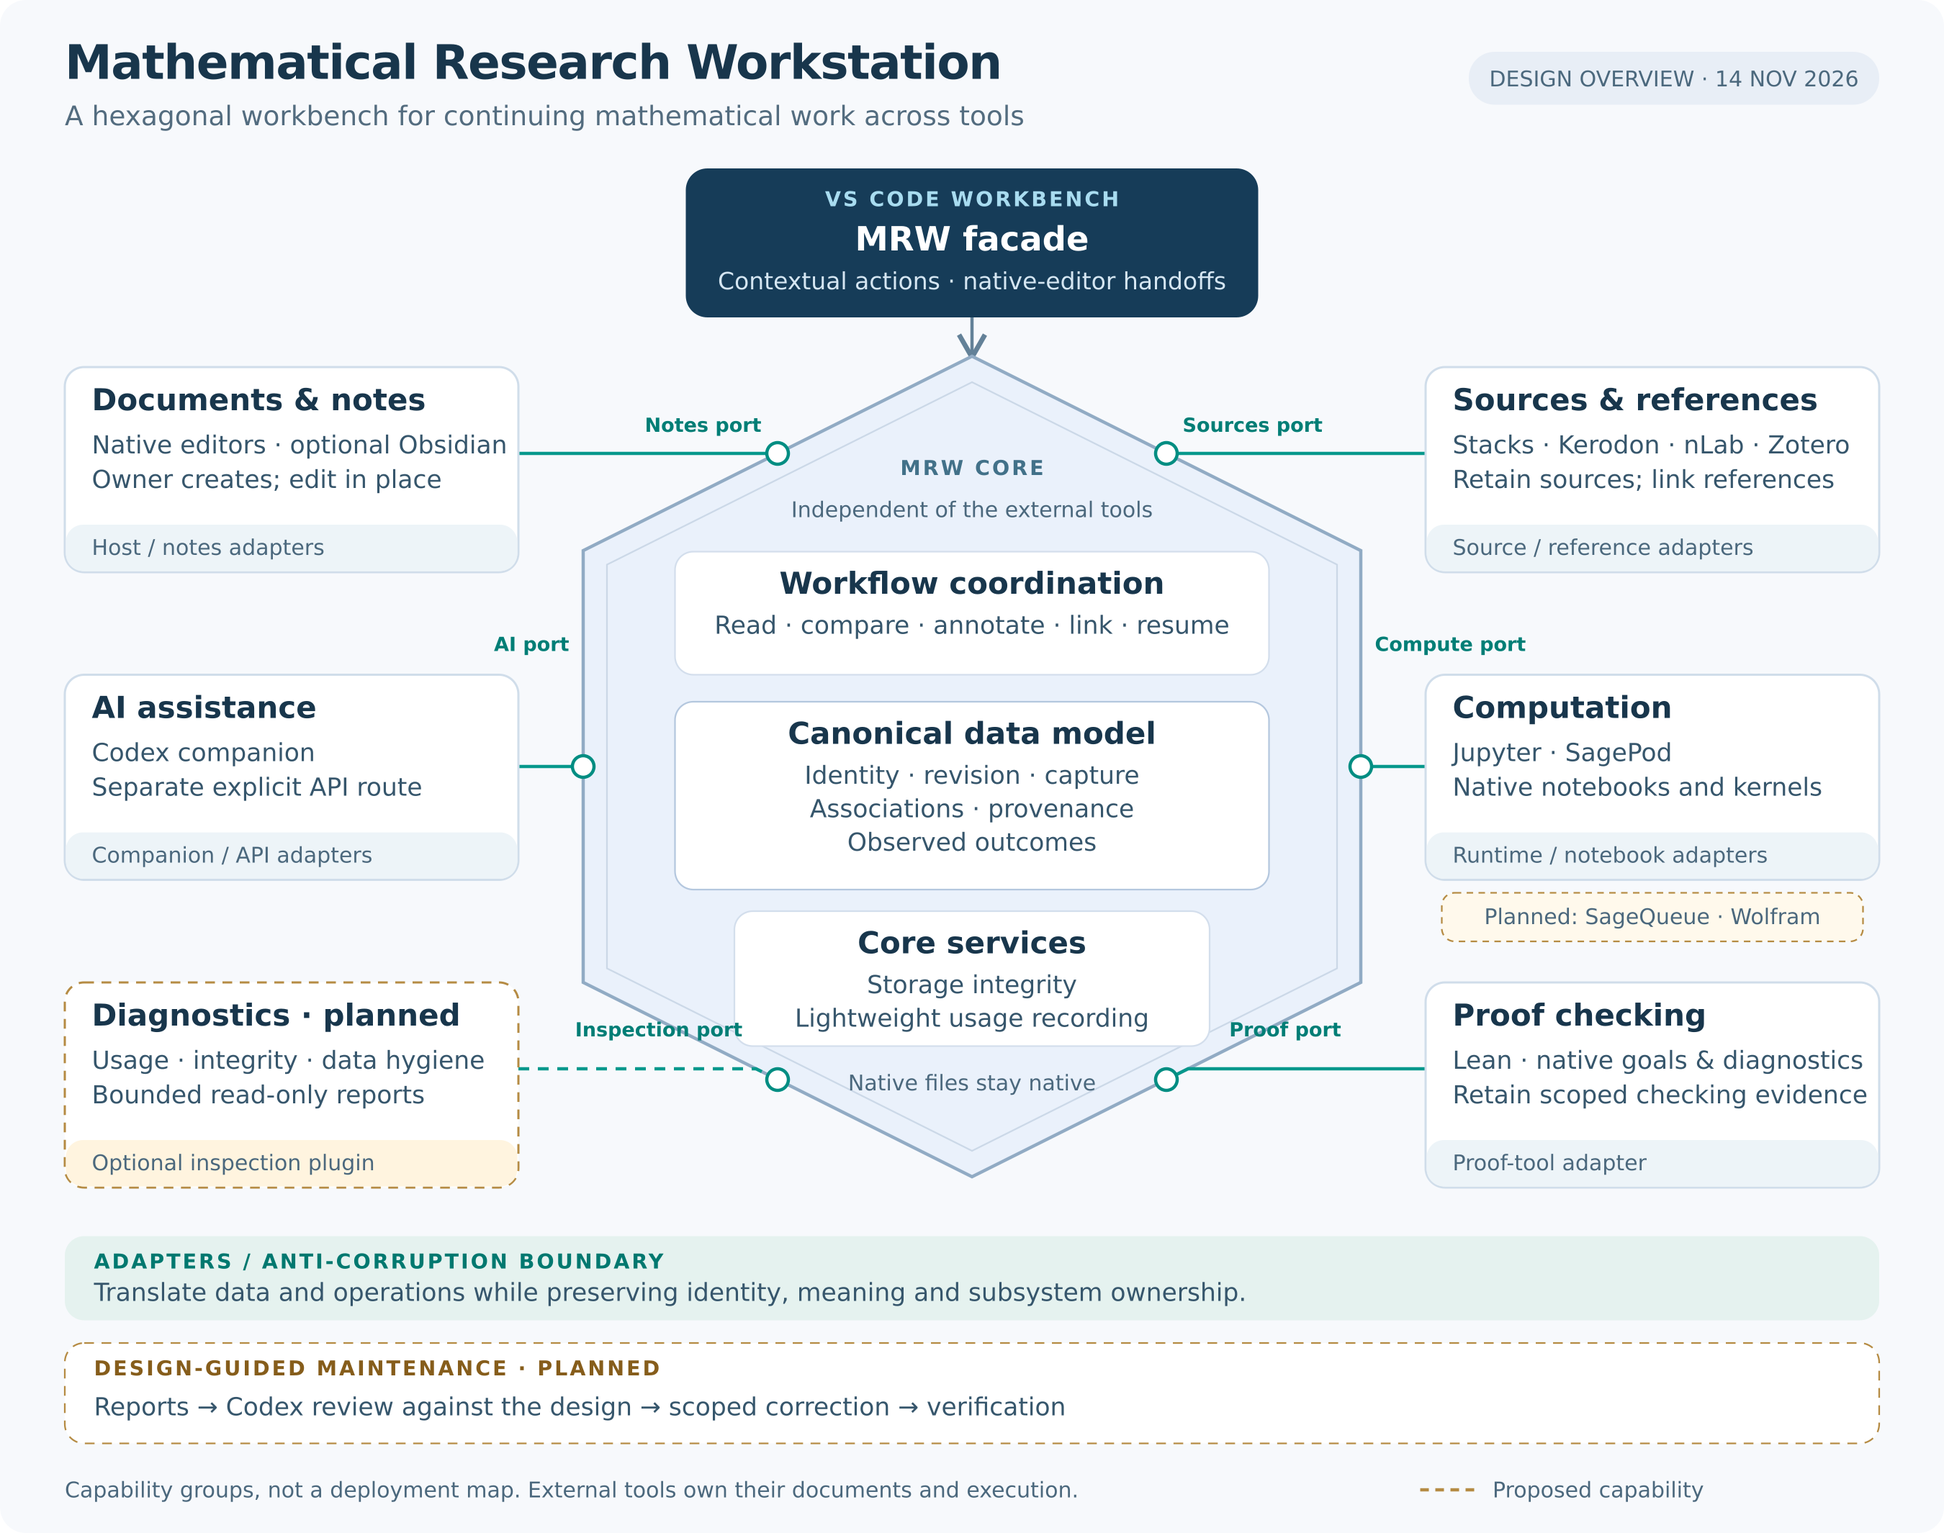
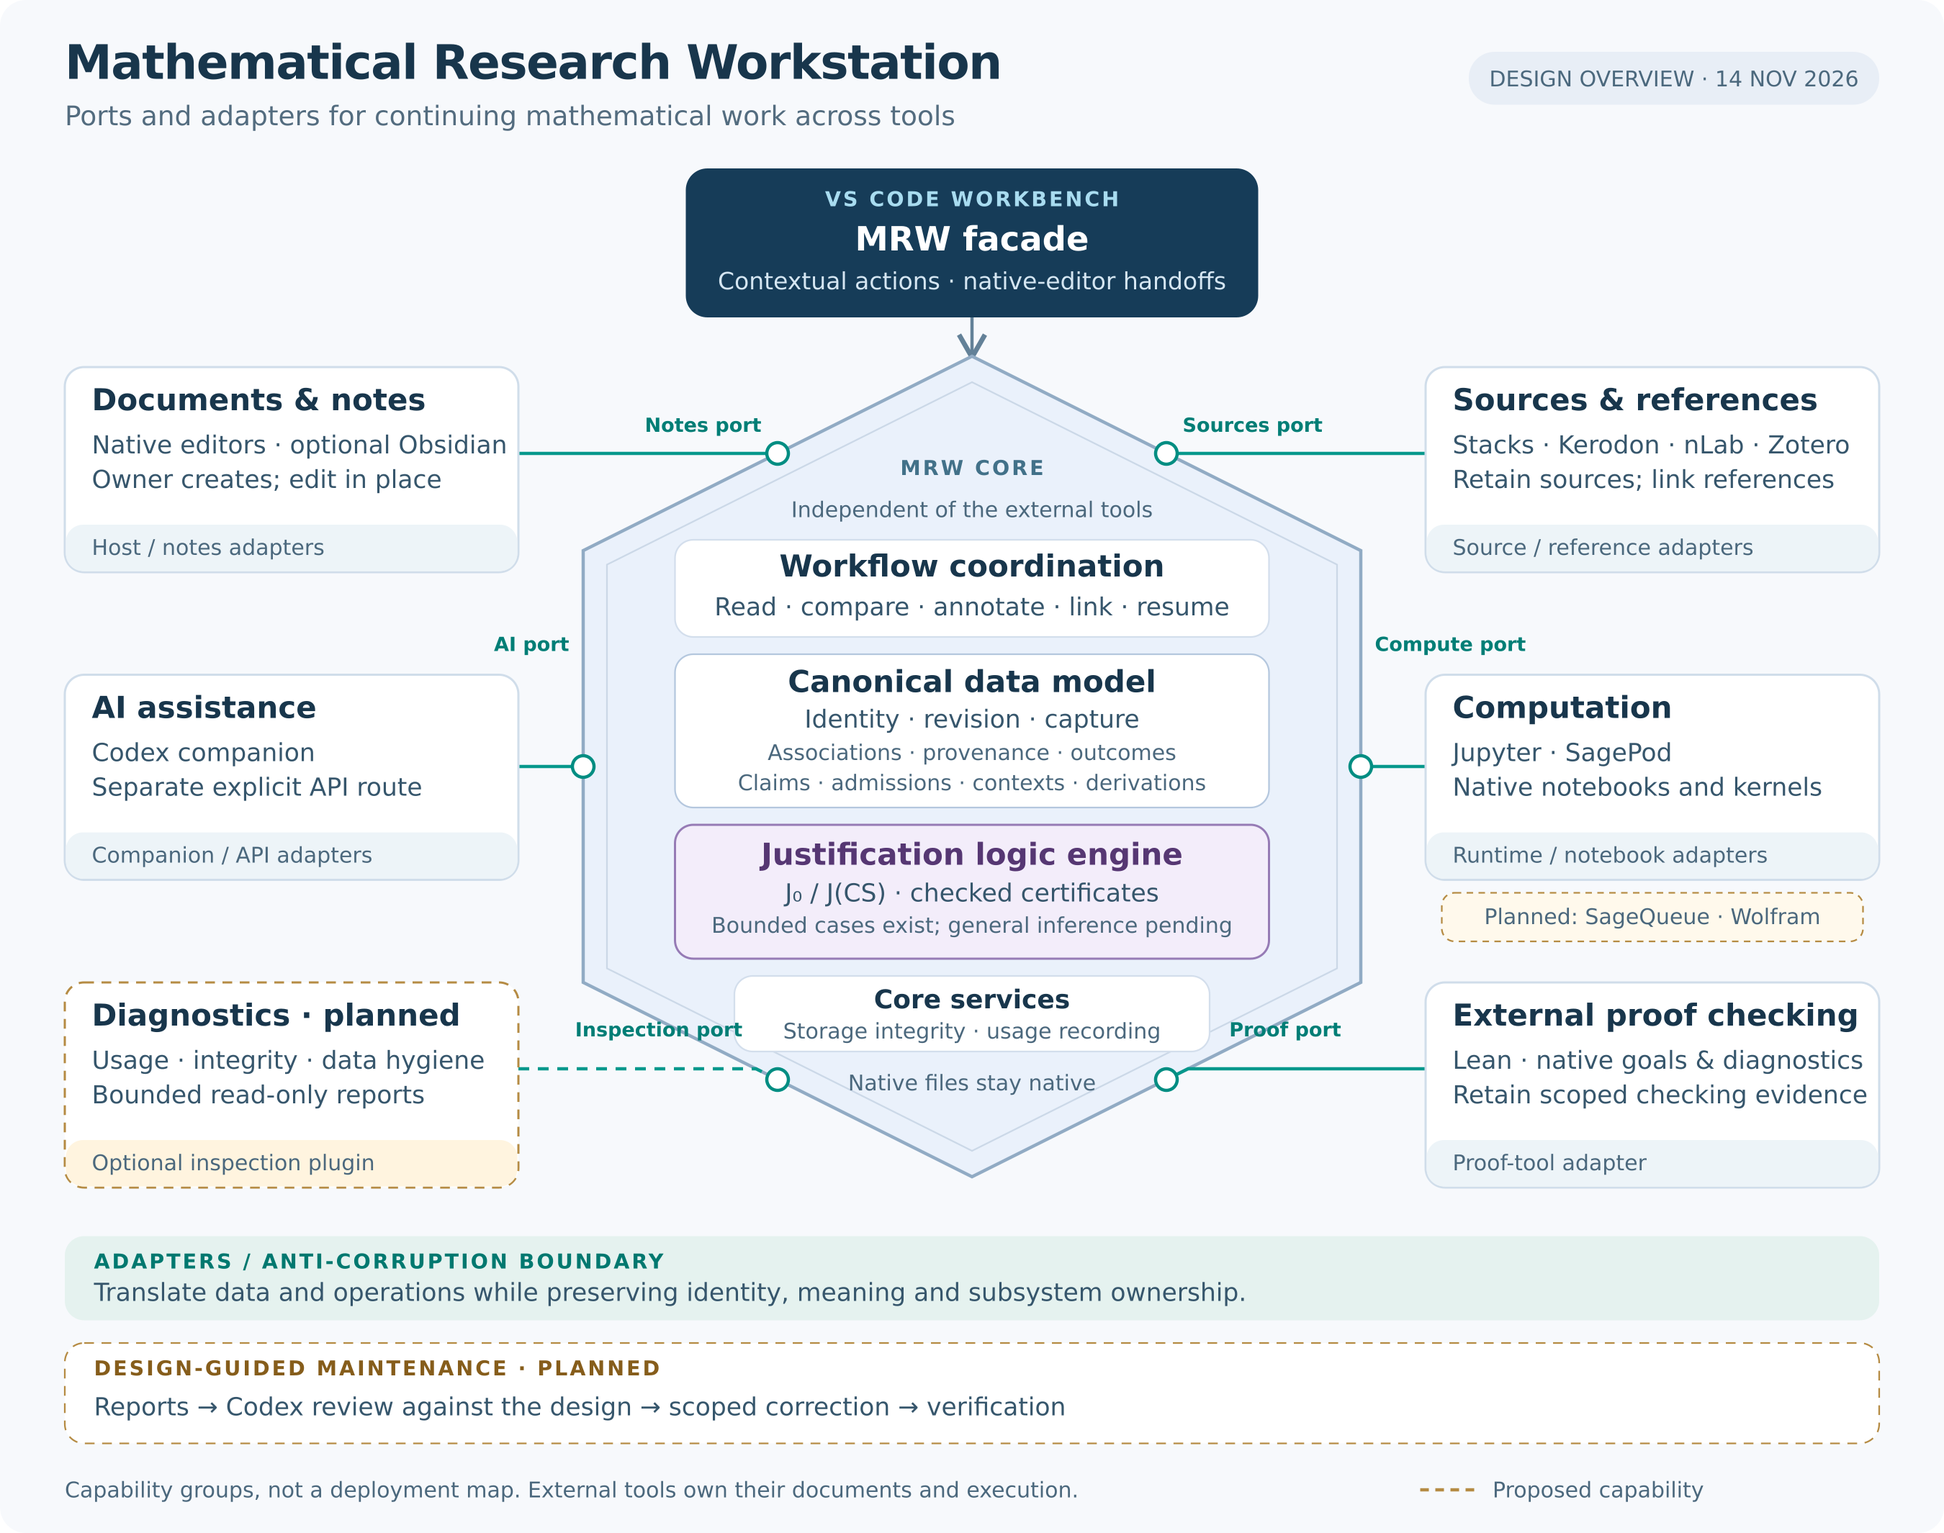
Restore justification engine in architecture overview
Show the integral J0/J(CS) engine inside the core, preserve its bounded implementation scope, and keep the contract pilot separate. Update the README, diagram, design register and continuation together.

diff --git a/docs/DESIGN_RECONCILIATION.md b/docs/DESIGN_RECONCILIATION.md
@@ -51,14 +51,28 @@ updates cannot change either status to delivered.
 | D12 | **Retained calculation → comparison → export.** Keep rich outputs and links to input/method revisions, relevant notes and proof work. Reuse native notebook views and evaluate notebook-aware comparison first. [Notebook requirements](NOTEBOOK_RESULTS.md#required-display-and-comparison-follow-up). | Partial. Capture/export and text comparison exist; rich display/comparison and main-control access remain pending. Demonstrate two differing results, output/error differences and provenance export without execution. |
 | D13 | **Zotero → attachment → Return.** Expose the delivered reference/attachment workflow in the same coherent interface. | Partial. Local API integration exists; complete the round trip and connection-status presentation. Test a missing attachment and changed metadata while retained citations remain stable. |
 | D14 | **Research resumption and reconstruction.** Recover existing documents, supported locations, conclusions, gaps, attempts and next work through links/prose, without duplicated forms. | Partial. Basic Return/Reopen exists; wider continuity and compressed-argument reconstruction remain pending. Demonstrate a stopped/resumed investigation, including an unsuccessful approach; never claim live kernel restoration. |
-| D15 | **Evidence and provenance.** Distinguish retained source, producer account, observed run, independent reproduction, formal check, premise admission and informal correspondence. Keep alternatives and failed approaches. | Bounded notebook provenance exists; general integrations remain proposed. W3C PROV is vocabulary, not a proof checker or mandatory workflow canvas. A checked Lean statement does not establish an unstated informal correspondence. |
+| D15 | **Evidence, provenance and justification.** Distinguish retained source, producer account, observed run, independent reproduction, formal check, scoped premise admission, checked contextual derivation, informal correspondence and human judgment. Keep alternative grounds and failed approaches. The [justification engine](JUSTIFICATION_LOGIC_EXPERIMENT.md) is integral to MRW. | Partial. Bounded notebook provenance and the Lean J₀/J(CS) checker with Appendix A and offline documentary-response cases exist. General inference search and the complete interactive workflow remain pending. W3C PROV records provenance; checked derivability is relative to explicit admissions and a context. A checked Lean statement does not establish an unstated informal correspondence. |
 | D16 | **Feature use over time.** Keep lightweight core recording; report used, available-but-unused, unavailable, uninstrumented and unknown periods. [Measurement contract](OPERATIONAL_USAGE.md). | Partial. Repair coverage, relocation counts and aggregation; exclude test/automated activity. Direct reports belong to the optional diagnostics plugin. Use findings in maintenance, not automatic feature retirement. |
 | D17 | **Periodic integrity and hygiene.** Optional diagnostics plugin; core retains essential checks. Bounded, read-only, configurable reporting with explicit incomplete/unknown findings. [Plugin design](DIAGNOSTICS_PLUGIN.md). | Proposed. No reporting plugin/schedule is delivered. Test interrupted scans, concurrent changes, offline replicas and resource limits. Old/unvisited/unlinked research is not garbage. |
 | D18 | **Reports → Codex maintenance → design comparison.** Compare every proposed change with the current design, revalidate findings, make bounded corrections and verify outcomes. [Maintenance contract](CODEX_MAINTENANCE.md). | Required workflow now documented; automated handoff/maintenance scheduling remains unimplemented. Reporting cadence and maintenance cadence are separate. |
 | D19 | **Instruction consistency.** One current decision/status register and maintenance workflow, linked from entry documents; versioned evidence remains accessible. | Current authority is consolidated here. Long historical sections remain for compatibility and invariants; further extraction must preserve anchors and map every surviving rule before deletion. Do not duplicate new status across four files. |
 | D20 | **Resource budgets and realistic validation.** Bounded history/scan reads, streaming hashes, cancellable work and measured memory/I/O limits. Test adapters at their real boundary. | Required for new reporting and relevant repairs. Current whole-history aggregation is a known gap, not a proven cause of prior exhaustion. Tests must use isolated vaults/kernels/queues and must not control live authoring prompts. |
-| D21 | **Selective contract formalization.** Small executable Lean models for identity-preserving relocation, delegation/outcomes and report classification, tied explicitly to runtime behavior. [Scope](CONTRACT_FORMALIZATION.md). | Proposed. Begin with core/Std and the existing pinned toolchain; no new contract proof or implementation refinement is claimed. Models must not block UI repairs or assume the property they claim to prove. |
+| D21 | **Selective contract formalization.** Small executable Lean models for identity-preserving relocation, delegation/outcomes and report classification, tied explicitly to runtime behavior. Keep `MRW.Contracts` separate from the integral `MRW.Justification` subsystem. [Scope](CONTRACT_FORMALIZATION.md). | Proposed. Begin with core/Std and the existing pinned toolchain; no new contract proof or implementation refinement is claimed. Models must not block UI repairs or assume the property they claim to prove. |
 | D22 | **Existing-note citation rendering.** Read Obsidian/Pandoc citation syntax using a selected existing processor and scoped bibliography, preserving note bytes and source positions. [Zotero viewer gap](ZOTERO_WORKFLOW.md#citation-rendering-in-existing-notes). | Pending. User reports Obsidian/Pandoc references do not resolve in the viewer; current code has no citeproc support. Formatted Markdown insertion is a different supported route. Verify the configured syntax/bibliography and actual viewer; no live-vault rewriting or automatic Zotero queries. |
+
+## Architecture correction — 2026-11-14
+
+The [architecture overview](ARCHITECTURE.md), README and SVG/PNG now identify
+the justification engine inside the MRW core. D15 distinguishes its existing
+bounded checker from general inference and the full interactive workflow.
+D21 keeps the proposed contract pilot separate. This clarification was checked
+against main `0c63d714660b585498a9fe0c7731bd50148cb705`; it does not
+change runtime behavior or mark the remaining inference work complete.
+
+Validation: parsed the SVG as XML, exported and visually inspected the
+2700 × 2130 PNG, and checked changed documentation links against the repository
+tree. Lean, Python and extension suites were not rerun for this documentation
+correction.
 
 ## Reuse decisions and exclusions
 

diff --git a/docs/ARCHITECTURE.md b/docs/ARCHITECTURE.md
@@ -1,12 +1,13 @@
 # Architecture in brief
 
 MRW is an integration workbench for mathematical research. It connects reading,
-notes, calculations and proof work while preserving the context needed to
-continue. The design uses ports and adapters: MRW's research services express
+notes, calculations, proof work and the reasons supporting claims while
+preserving the context needed to continue. The design uses ports and adapters:
+MRW's research services express
 the capabilities they need, and adapters connect those capabilities to the
 systems responsible for documents, sources and execution.
 
-![MRW hexagonal architecture: the VS Code facade leads to workflow coordination, a canonical data model and core services. Ports and adapters connect documents, sources, computation, proof checking, AI and planned diagnostics.](assets/mrw-architecture.png)
+![MRW architecture: the VS Code facade leads to workflow coordination, a canonical data model, the integral justification logic engine and core services. Ports and adapters connect documents, sources, computation, external proof checking, AI and planned diagnostics.](assets/mrw-architecture.png)
 
 [Scalable SVG](assets/mrw-architecture.svg) · [PNG](assets/mrw-architecture.png)
 
@@ -22,13 +23,35 @@ remaining acceptance work.
 | **Ports and adapters** | Capability-specific interfaces connect notes, sources, computation, proof tools, AI and inspection. Adapters translate each external system's API and data. |
 | **Anti-corruption layer** | Translation preserves identity, revision, attribution and meaning across unlike systems; external formats and status conventions do not silently redefine MRW records. This is a software boundary, not a correctness guarantee. |
 | **Workflow coordination** | Connect reading, comparison, annotation, linking and resumption. Keep operations explicit and distinguish dispatch, acceptance and completion. |
-| **Canonical data model** | A narrow shared vocabulary for logical identities, current locations, immutable revisions/captures, associations, provenance and observed outcomes. Ordinary documents remain in their native formats; no duplicate representation of every mathematical idea is required. |
+| **Canonical data model** | A narrow shared vocabulary for logical identities, current locations, immutable revisions/captures, associations, provenance, observed outcomes, claim versions, admissions, contexts and derivations. Ordinary documents remain in their native formats; no duplicate representation of every mathematical idea is required. |
+| **Justification logic engine** | MRW's integral Lean subsystem checks certificates for the non-factive J₀/J(CS) calculus relative to explicit admissions and a recorded context. Python binds and retains artifacts and bundles; JavaScript presents the workflow. |
 | **Core services** | Maintain storage invariants, retained references and lightweight operational usage records. Optional companions must not disable these protections. |
+
+The [justification subsystem](JUSTIFICATION_LOGIC_EXPERIMENT.md) is implemented
+under `lean/MRW/Justification/`. Its separate Lake project is a build boundary
+within MRW. The Appendix A warrant slice and offline documentary-response bridge
+are executable; broader goal-directed inference and interaction remain pending.
+The existing executable does not provide a general route-search protocol.
+
+The engine records why a claim follows from specified admissions. Provenance
+records where artifacts came from; an external proof check records what was
+checked in a pinned environment. Connecting an informal claim to a formal
+statement requires an explicit reviewed bridge. These relations have separate
+records and meanings. Successful certificate checking establishes contextual
+derivability; source reputation, citations and successful execution supply no
+automatic premise admission. Challenges and withdrawals preserve prior contexts
+and certificates; a successor context records revised admissions. Ordinary
+reading does not require creating claims or admissions.
+
+The figure's solid justification block represents the existing bounded engine.
+It does not claim that general inference, multiple-route search or the complete
+interactive workflow has been delivered.
 
 External systems retain ownership. The Zettelkasten application creates its
 notes using its configured workflow; existing notes can be edited natively.
-Jupyter and SagePod supply notebook execution and its environment; Lean owns
-proof checking; Zotero owns its reference library. MRW retains selected sources,
+Jupyter and SagePod supply notebook execution and its environment; the Lean
+extension supplies native proof-checking interaction; Zotero owns its reference
+library. MRW retains selected sources,
 results and links without introducing competing template engines, evaluators,
 queues or managed databases. Source notes and developed Zettels remain distinct,
 potentially many-to-many works.
@@ -44,7 +67,9 @@ The design is governed by [integration boundaries](INTEGRATION_BOUNDARIES.md),
 [operational usage](OPERATIONAL_USAGE.md), [diagnostics](DIAGNOSTICS_PLUGIN.md)
 and [Codex maintenance](CODEX_MAINTENANCE.md). A proposed
 [Lean contract model](CONTRACT_FORMALIZATION.md) would check selected invariants;
-it would not by itself verify the Python/JavaScript implementation.
+it would not by itself verify the Python/JavaScript implementation. The proposed
+`MRW.Contracts` project remains separate from the existing `MRW.Justification`
+subsystem.
 
 ## Updating the figure
 

diff --git a/README.md b/README.md
@@ -21,19 +21,26 @@ There is no Marketplace listing. The extension ID is `flengyel.mrw`.
 
 ## Architecture
 
-MRW is an integration workbench built around **ports and adapters**. Its VS Code
-facade exposes contextual actions; the core coordinates research workflows and
-keeps a narrow model of identities, revisions, retained sources/results,
-associations and provenance. Adapters translate external interfaces while
-preserving their meaning and ownership—the anti-corruption boundary.
+MRW connects mathematical research through **ports and adapters**. Its VS Code
+facade exposes contextual actions; the core coordinates workflows and maintains
+a narrow model of identities, revisions, retained sources/results, associations,
+provenance and justification records. Adapters preserve external meaning and
+ownership across the anti-corruption boundary.
 
-![MRW hexagonal architecture: facade, workflow coordination, canonical data model, ports and adapters, and optional diagnostics.](docs/assets/mrw-architecture.png)
+![MRW architecture: facade, workflow coordination, canonical data model, integral justification logic engine, core services, ports and adapters, and planned diagnostics.](docs/assets/mrw-architecture.png)
+
+The integral **justification logic engine** checks how claims follow from
+explicit admissions in a recorded context. Its Lean implementation checks
+certificates for the non-factive J₀/J(CS) calculus. The Appendix A warrant slice
+and offline documentary-response bridge are executable; general inference
+search and the complete interactive workflow remain pending. Provenance,
+external proof checking and contextual justification have distinct roles.
 
 Native applications retain document creation and execution. MRW connects the
 work, preserves references and supports resumption. The proposed diagnostics
 companion supplies reports for Codex maintenance checked against the design;
 core integrity checks and usage recording remain in MRW. Dashed elements are
-planned, not delivered.
+planned capabilities.
 
 [Architecture summary](docs/ARCHITECTURE.md) ·
 [Scalable diagram](docs/assets/mrw-architecture.svg) ·

diff --git a/docs/CODEX_CONTINUATION.md b/docs/CODEX_CONTINUATION.md
@@ -15,6 +15,22 @@ user instructions or the register. Preserve work, exact identities, subsystem
 ownership, explicit execution and isolated testing; do not drop those constraints
 when consolidating history. Verify source, release and installation separately.
 
+## Justification engine and architecture
+
+Preserve the integral engine in the [architecture overview](ARCHITECTURE.md)
+and figure. Use [D15 and D21](DESIGN_RECONCILIATION.md) for its current scope and
+the separation from the contract pilot, and
+[the justification specification](JUSTIFICATION_LOGIC_EXPERIMENT.md) for the
+existing calculus, records and explicit invocation boundaries.
+
+The requested inference workflow must eventually demonstrate a retained claim,
+explicit scoped admissions, multiple checked composed routes, inspection of
+their exact sources and assumptions, a challenge and successor context, and
+save/reopen with source navigation and Return. General search belongs in Lean;
+Python binds and persists artifacts, and the extension presents the interaction.
+A diagram or documentation change does not complete that implementation.
+Carry this objective forward with the remaining D01–D22 repairs.
+
 ## Operational usage and periodic diagnostics — design requirements
 
 Follow [feature-use measurement](OPERATIONAL_USAGE.md) and the optional
